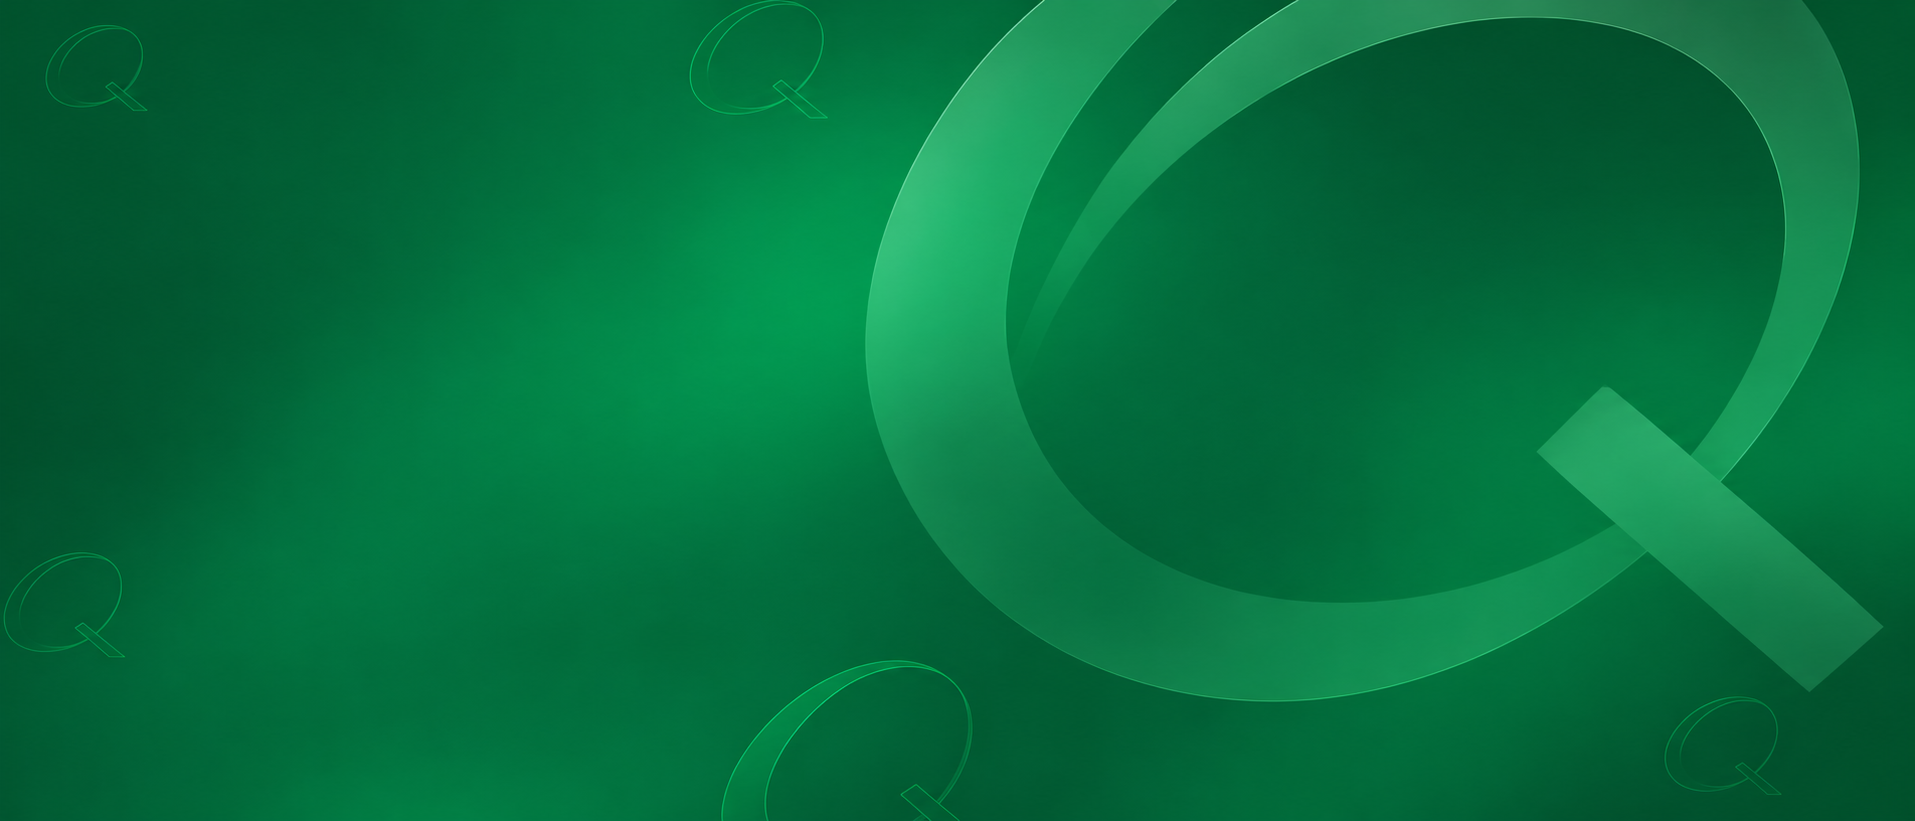
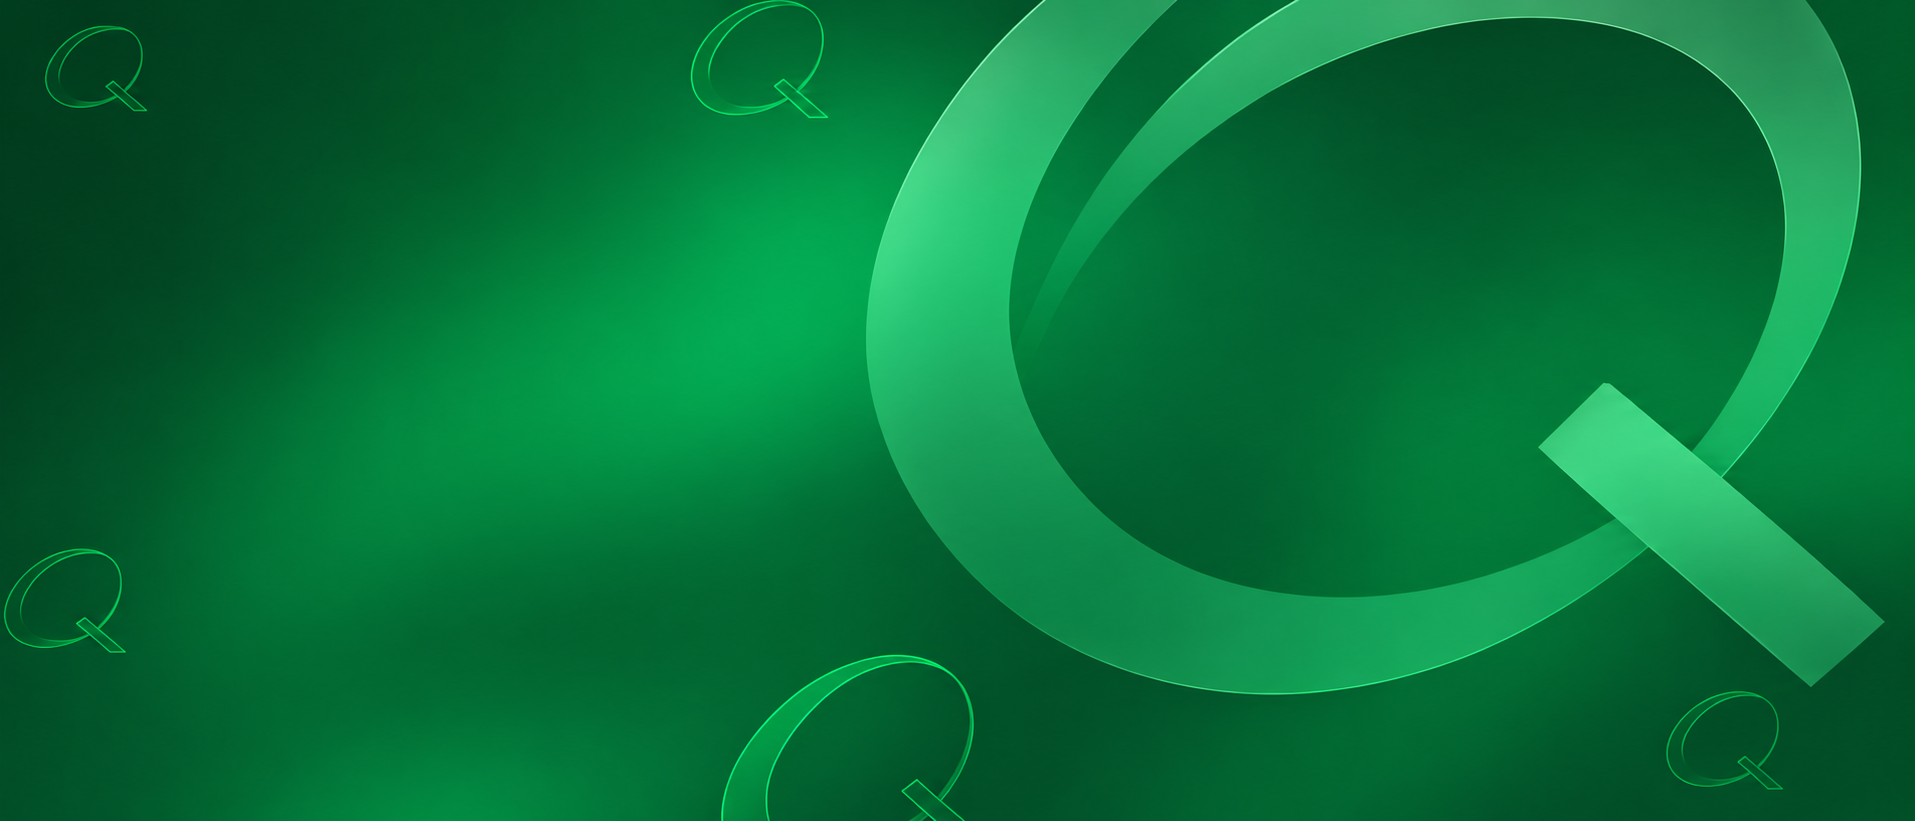
updated files
- updated the home page; hero and our story section

diff --git a/quanta-frontend/src/components/sections/our-story.tsx b/quanta-frontend/src/components/sections/our-story.tsx
@@ -1,6 +1,7 @@
 "use client";
 
 import Link from "next/link";
+import Image from "next/image";
 import { ArrowRight, ArrowUpRight } from "lucide-react";
 import { motion } from "framer-motion";
 
@@ -22,182 +23,17 @@ const fadeInUp = {
   }),
 };
 
-/** Small outlined "Q" mark used as a faint watermark. */
-function QOutline({
-  x,
-  y,
-  scale = 1,
-  rotate = -30,
-  opacity = 0.5,
-}: {
-  x: number;
-  y: number;
-  scale?: number;
-  rotate?: number;
-  opacity?: number;
-}) {
-  return (
-    <g
-      transform={`translate(${x} ${y}) scale(${scale}) rotate(${rotate})`}
-      stroke="#25b866"
-      strokeOpacity={opacity}
-      strokeWidth="1.5"
-      fill="none"
-    >
-      <ellipse cx="0" cy="0" rx="64" ry="50" />
-      <ellipse cx="0" cy="0" rx="54" ry="40" />
-      <path d="M22 38 L70 82 M36 34 L62 58" />
-    </g>
-  );
-}
-
-/**
- * Decorative background. Coordinates are in a 1907x664 box (the reference
- * design) and anchored to the RIGHT edge, so the big Q stays put instead of
- * drifting when the section's height changes.
- */
-function StoryBackground() {
-  return (
-    <div aria-hidden className="pointer-events-none absolute inset-0">
-      {/* base: lighter glow centre-left, darker toward the edges */}
-      <div
-        className="absolute inset-0"
-        style={{
-          background:
-            "radial-gradient(ellipse 50% 85% at 24% 45%, #087c3d 0%, #066c37 42%, #055b2f 78%, #045029 100%)",
-        }}
-      />
-      {/* darker right side so the ring band reads against it */}
-      <div
-        className="absolute inset-0"
-        style={{
-          background:
-            "radial-gradient(ellipse 40% 70% at 82% 40%, rgba(2,45,22,0.28) 0%, transparent 70%)",
-        }}
-      />
-
-      <svg
-        className="absolute inset-0 h-full w-full"
-        viewBox="0 0 1907 664"
-        preserveAspectRatio="xMaxYMid slice"
-        fill="none"
-      >
-        {/* big faint "2003", only its top shows above the bottom edge */}
-        <text
-          x="1300"
-          y="705"
-          fontSize="190"
-          fontWeight="800"
-          fill="#3fb374"
-          fillOpacity="0.14"
-          style={{ fontFamily: "Georgia, 'Times New Roman', serif" }}
-        >
-          2003
-        </text>
-
-        {/* bottom-centre arcs */}
-        <ellipse
-          cx="870"
-          cy="710"
-          rx="105"
-          ry="125"
-          stroke="#3fb374"
-          strokeOpacity="0.25"
-          strokeWidth="2"
-          transform="rotate(-20 870 710)"
-        />
-        <ellipse
-          cx="880"
-          cy="715"
-          rx="85"
-          ry="100"
-          stroke="#3fb374"
-          strokeOpacity="0.15"
-          strokeWidth="2"
-          transform="rotate(-20 880 715)"
-        />
-
-        {/* faint Q watermarks (only parts show at the edges) */}
-        <QOutline x={95} y={-30} scale={0.9} />
-        <QOutline x={760} y={-20} scale={0.8} opacity={0.4} />
-        <QOutline x={55} y={505} scale={1.05} opacity={0.45} />
-        <QOutline x={1695} y={625} scale={0.8} opacity={0.35} />
-      </svg>
-
-      {/*
-        The big Q. Fixed pixel size, pinned to the content container's right
-        edge and the section's top, so it never scales or drifts with the
-        section height. Coordinates: x is measured from the container's right
-        edge (negative = left of it), y from the top of the section.
-      */}
-      <div
-        className="absolute top-0 h-0 w-0"
-        style={{ right: "max(calc(50% - 576px), 24px)" }}
-      >
-        <svg
-          width="1"
-          height="1"
-          style={{
-            position: "absolute",
-            top: 0,
-            right: 0,
-            overflow: "visible",
-          }}
-        >
-          {/* big ring of the Q, behind the copy and video */}
-          <circle
-            cx="-288"
-            cy="388"
-            r="354"
-            stroke="#3fb374"
-            strokeOpacity="0.38"
-            strokeWidth="100"
-            fill="none"
-          />
-
-          {/* wide sweeping band behind the video */}
-          <circle
-            cx="130"
-            cy="318"
-            r="465"
-            stroke="#3fb374"
-            strokeOpacity="0.2"
-            strokeWidth="110"
-            fill="none"
-          />
-
-          {/* top-right ring with a dark centre */}
-          <circle cx="230" cy="98" r="178" fill="#02381c" fillOpacity="0.35" />
-          <circle
-            cx="230"
-            cy="98"
-            r="272"
-            stroke="#3fb374"
-            strokeOpacity="0.17"
-            strokeWidth="187"
-            fill="none"
-          />
-
-          {/* tail of the Q */}
-          <polygon
-            points="205,443 120,523 370,740 455,660"
-            fill="#3fb374"
-            fillOpacity="0.34"
-            stroke="#3fb374"
-            strokeOpacity="0.34"
-            strokeWidth="14"
-            strokeLinejoin="round"
-          />
-        </svg>
-      </div>
-    </div>
-  );
-}
-
 export function OurStory() {
   return (
     <section className="relative isolate w-full overflow-hidden bg-[#066c37] text-white">
-      <StoryBackground />
+      <Image
+        src="/images/MAIN-BANNER.png"
+        alt=""
+        fill
+        priority
+        aria-hidden
+        className="pointer-events-none object-cover"
+      />
 
       <div className="relative z-10 mx-auto w-full max-w-6xl px-6 pb-20 pt-24 xl:px-0">
         <div className="grid items-center gap-14 lg:grid-cols-[minmax(0,460px)_minmax(0,612px)] lg:justify-between">

diff --git a/quanta-frontend/src/components/sections/hero.tsx b/quanta-frontend/src/components/sections/hero.tsx
@@ -19,12 +19,11 @@ export function Hero() {
     <section className="relative isolate flex min-h-[700px] w-full items-center overflow-hidden bg-[#4f7a6b] lg:min-h-[780px]">
       {/* Background photograph */}
       <Image
-        src="/images/QUANTA-BANNER.png"
+        src="/images/HOMEPAGE-BANNER.png"
         alt="Quanta Paper Corporation factory building surrounded by greenery"
         fill
         priority
         sizes="100vw"
-        quality={90}
         className="object-cover"
       />
       <div className="absolute inset-0 bg-[#4f7a6b]/50 opacity-10" />
